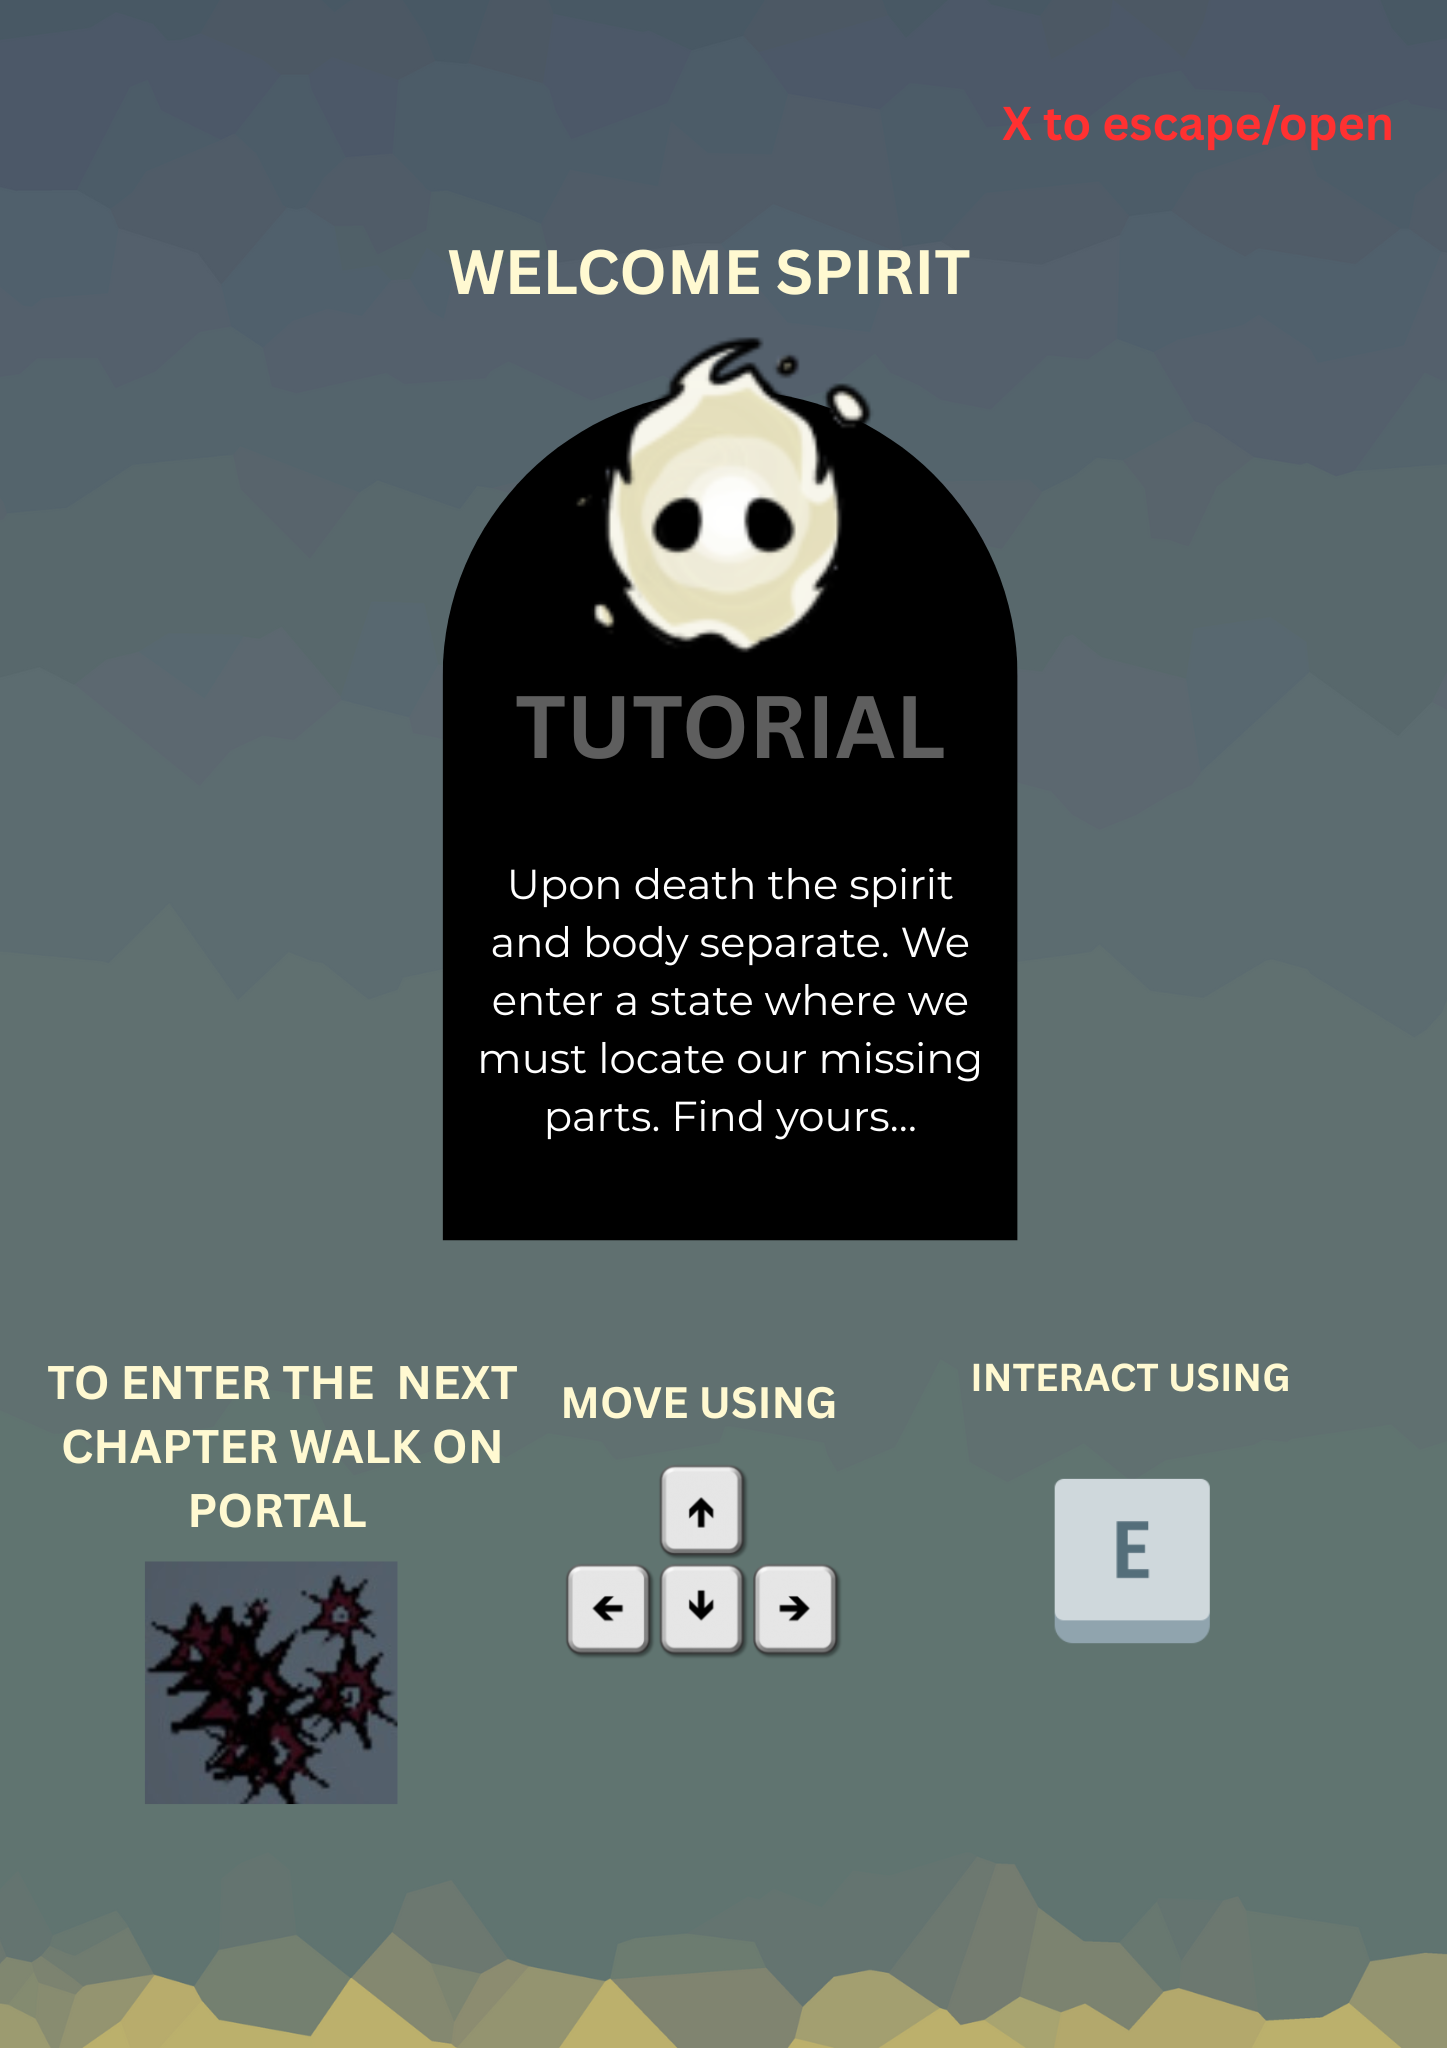
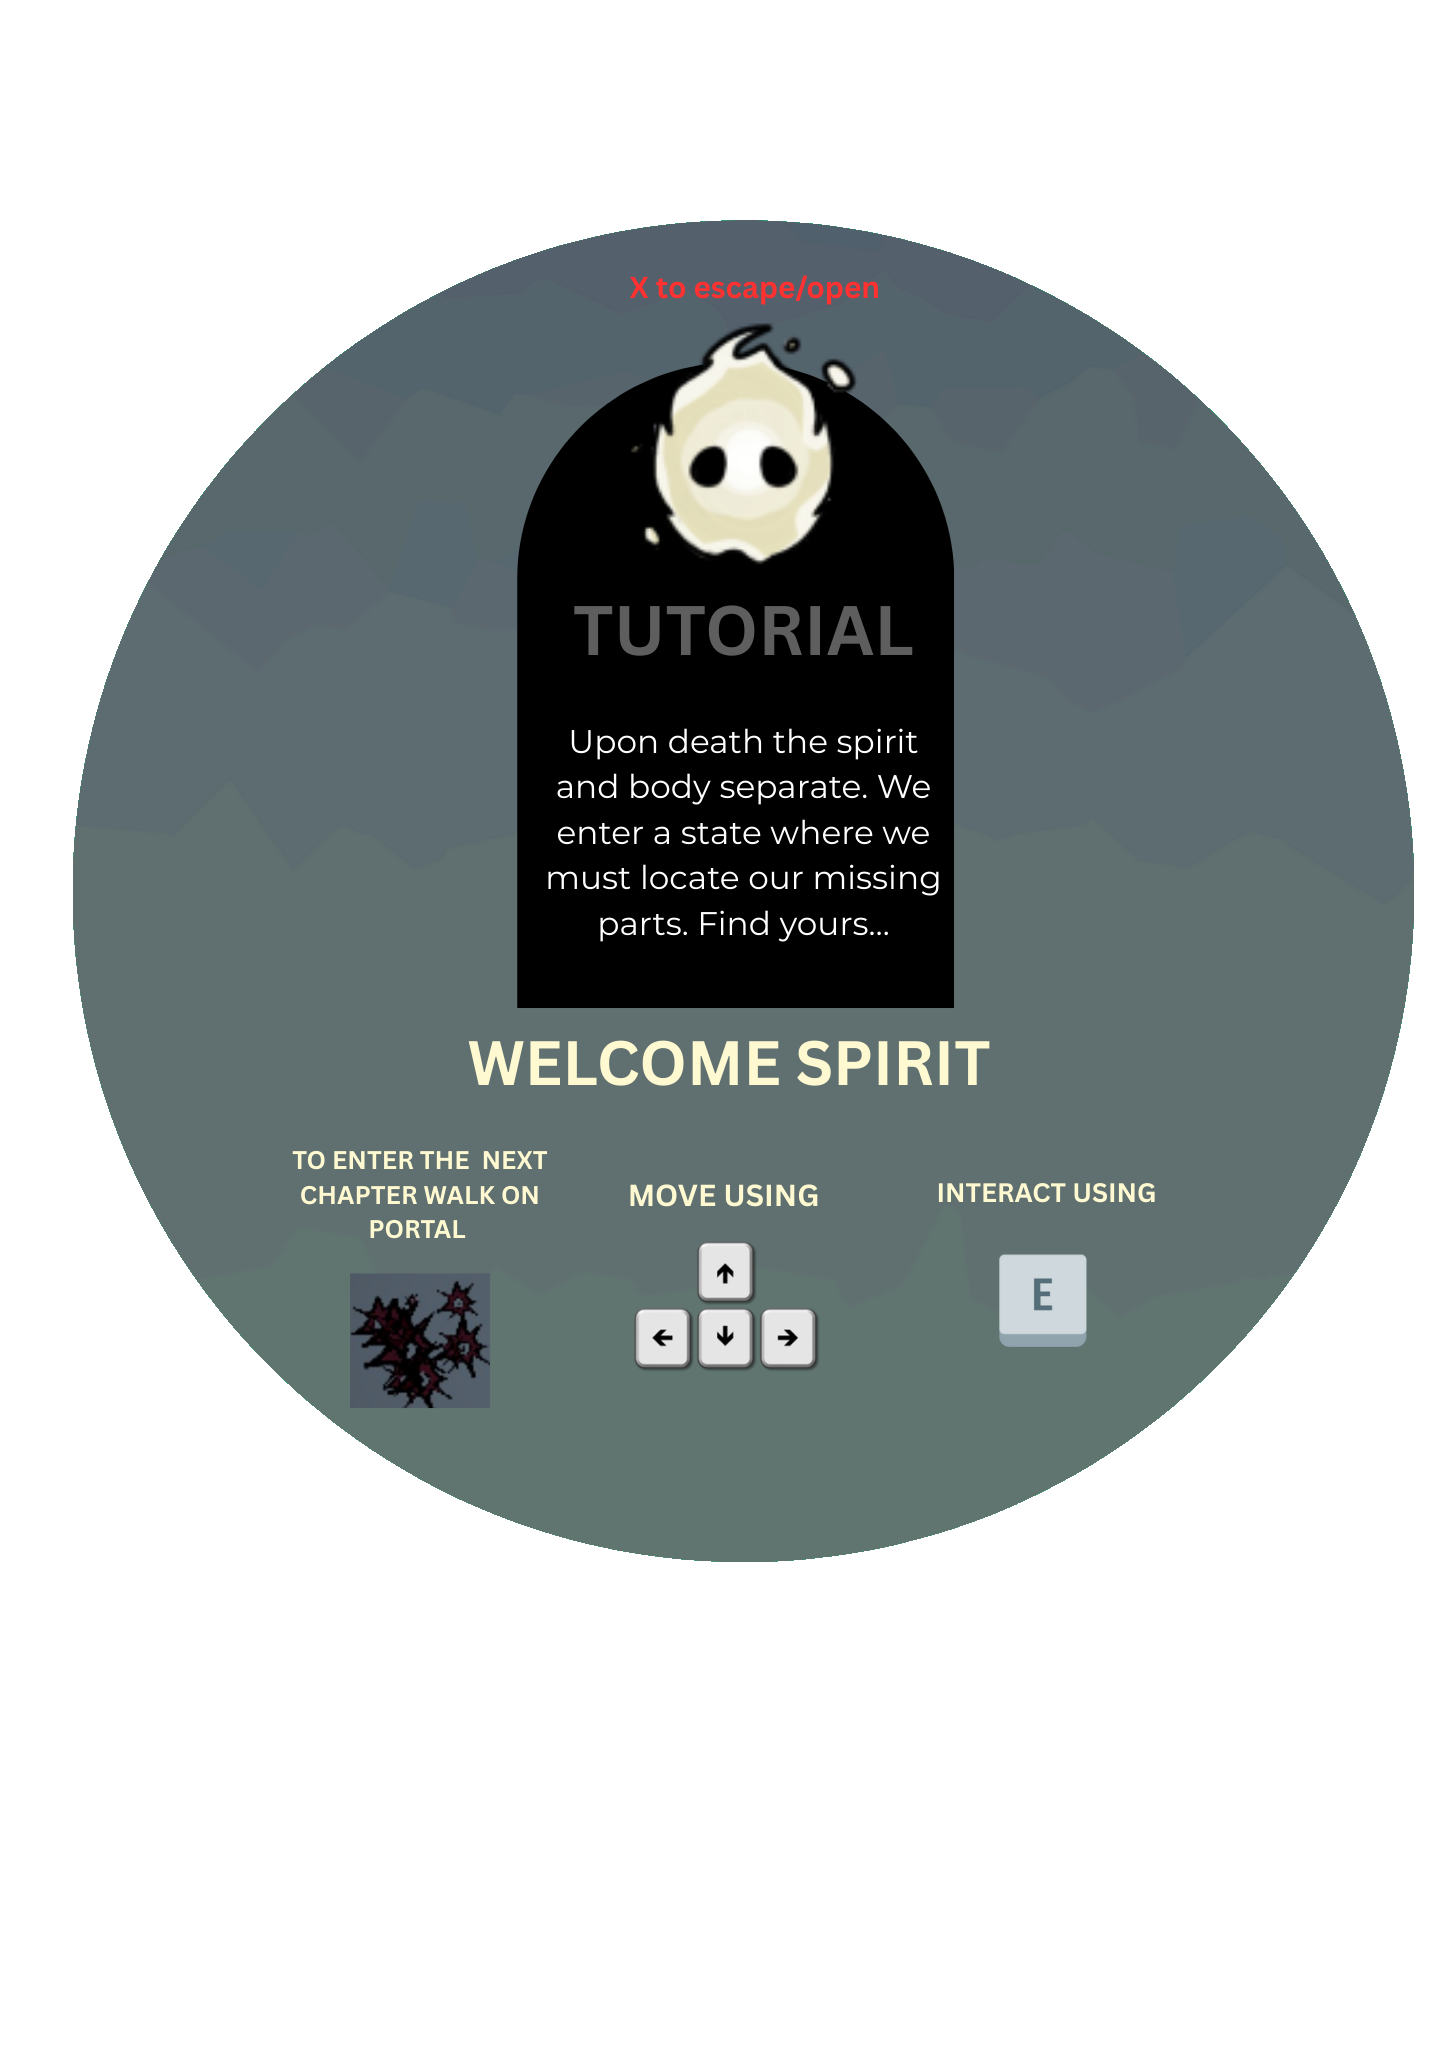
Added New Castles, Partially Completed Second Level, Various Small Improvements

diff --git a/js/Textbox.js b/js/Textbox.js
@@ -1,15 +1,17 @@
 // Class that represents a dialog textbox which displays hints and can be cycled through using the R key
 class Textbox {
-    constructor(scene, text) {
+    constructor(scene, text, question) {
         this.scene = scene; // Reference to the Phaser scene
         this.text = text; // The specific text object specified
         this.currentText = 0; // Which part of the text object to show
-        this.textBox(); // Calls textbox
+        this.question = question;
+        this.boxMade = false;
         this.rPressed = this.scene.input.keyboard.addKey('r'); // Add keyboard input for the R key
     }
 
     // Creates the textbox UI elements and sets their properties
     textBox() {
+        this.boxMade = true;
         this.cam = this.scene.cameras.main; // Reference to the main camera
 
         this.boxWindow = this.scene.physics.add.group(); // Create a physics group for textbox elements
@@ -35,6 +37,50 @@ class Textbox {
             this.nextR.setX(this.box.x + 160 - this.nextR.width / 2);
             this.nextR.setY(this.box.y + 45 - this.nextR.height / 2);
             this.tweenAdd(); // Start animation loop for blinking "(R)"
+        }
+    }
+
+    questionBox() {
+        this.boxMade = true;
+        this.cam = this.scene.cameras.main;
+
+        this.boxWindow = this.scene.physics.add.group();
+
+        // Main background box
+        this.box = this.scene.add.rectangle(this.cam.width / 2, this.cam.height * 0.70, this.cam.width / 2, this.cam.height / 3, 0xfff3d4).setDepth(1000).setStrokeStyle(4, 0xada41a);
+        this.box.setScrollFactor(0);
+
+        // Add the main box to the group
+        this.boxWindow.add(this.box);
+
+        // Add the question text near the top of the box
+        this.questionText = this.scene.add.text(0, 0, this.text[this.currentText]["question"], { fontFamily: "Palatino Linotype", fontSize: 22, color: '#5a4e10', stroke: '#ada41a', strokeThickness: 2, align: 'center', wordWrap: { width: this.box.width * 0.9 } }).setDepth(1001);
+        this.questionText.setScrollFactor(0);
+        this.questionText.setX(this.box.x - this.questionText.width / 2);
+        this.questionText.setY(this.box.y - this.box.height / 2 + 20);
+        this.boxWindow.add(this.questionText);
+
+        this.choiceBoxes = [];
+        this.choiceTextBoxes = [];
+        this.boxPadding = 10;
+        this.boxWidth = this.box.width / 2 - this.boxPadding * 2;
+        this.boxHeight = 40;
+
+        for (let i = 0; i < 4; i++) {
+            this.isTop = i < 2;
+            this.offsetX = (i % 2 === 0) ? -this.boxWidth / 2 - this.boxPadding : this.boxWidth / 2 + this.boxPadding;
+            this.offsetY = this.isTop ? 90 : 150;
+
+            this.choiceBox = this.scene.add.rectangle(this.box.x + this.offsetX, this.box.y - this.box.height / 2 + this.offsetY, this.boxWidth, this.boxHeight, 0xffffff).setStrokeStyle(2, 0xada41a).setDepth(1001);
+            this.choiceBox.setScrollFactor(0);
+            this.boxWindow.add(this.choiceBox);
+            this.choiceBoxes.push(this.choiceBox);
+
+            console.log(this.text[1]["choices"][i])
+            this.choiceText = this.scene.add.text(this.choiceBox.x, this.choiceBox.y, this.text[1]["choices"][i], { fontFamily: "Palatino Linotype", fontSize: 18, color: '#5a4e10', align: 'center', wordWrap: { width: this.boxWidth - 10 } }).setOrigin(0.5).setDepth(1002);
+            this.choiceText.setScrollFactor(0);
+            this.boxWindow.add(this.choiceText);
+            this.choiceTextBoxes.push(this.choiceText);
         }
     }
 
@@ -68,22 +114,34 @@ class Textbox {
 
     // Update method that handles user input for cycling through the text
     update() {
-        // If r is pressed
-        if (Phaser.Input.Keyboard.JustDown(this.rPressed)) {
-            this.currentText++; // Move onto the next text
+        if (this.question === false) {
+            if (this.boxMade === false) {
+                this.textBox(); // Calls textbox
+            }
+            if (this.boxMade === true) {
+                // If r is pressed
+                if (Phaser.Input.Keyboard.JustDown(this.rPressed)) {
+                    this.currentText++; // Move onto the next text
 
-            // If the next texts value is beyond the amount of texts
-            if (this.currentText >= this.text.length) {
-                this.currentText = 0; // Move back to the start
+                    // If the next texts value is beyond the amount of texts
+                    if (this.currentText >= this.text.length) {
+                        this.currentText = 0; // Move back to the start
+                    }
+
+                    // Update displayed text to new text
+                    this.textWrite.setText(this.text[this.currentText]["hint"]);
+
+                    // Centers the text within the box
+                    this.textWrite.setX(this.box.x - this.textWrite.width / 2);
+                    this.textWrite.setY(this.box.y - this.textWrite.height / 2);
+                }
             }
 
-            // Update displayed text to new text
-            this.textWrite.setText(this.text[this.currentText]["hint"]);
-
-            // Centers the text within the box
-            this.textWrite.setX(this.box.x - this.textWrite.width / 2);
-            this.textWrite.setY(this.box.y - this.textWrite.height / 2);
-
+        }
+        else {
+            if (this.boxMade === false) {
+                this.questionBox()
+            }
         }
     }
 
@@ -104,5 +162,18 @@ class Textbox {
         if (this.rPressed) {
             this.rPressed.off('down');
         }
+
+        if (this.questionText) {
+            this.questionText.destroy();
+        }
+
+        if (this.choiceBoxes) {
+            this.choiceBoxes.forEach(box => box.destroy());
+        }
+
+        if (this.choiceText) {
+            this.choiceText.destroy();
+        }
+
     }
 }

diff --git a/js/Interactable.js b/js/Interactable.js
@@ -1,6 +1,6 @@
 // A class for creating interactive game objects the player can interact with using the E key
 class Interactable extends Phaser.Physics.Arcade.Sprite {
-    constructor(scene, x, y, width, height, texture, textName, animated, canInteract, text, noMSG, player) {
+    constructor(scene, x, y, width, height, texture, textName, animated, canInteract, text, noMSG, question, player) {
         super(scene, x, y, texture); // Calls the parent class (Sprite)
 
         scene.add.existing(this).setDepth(0.4); // Add this game object to the main scene
@@ -15,6 +15,7 @@ class Interactable extends Phaser.Physics.Arcade.Sprite {
         this.animated = animated; // Whether this object has a looping animation
         this.canInteract = canInteract; // Whether interaction is currently allowed
         this.noMSG = noMSG; // Message shown if interaction is not allowed
+        this.question = question;
         this.ePressed = this.scene.input.keyboard.addKey('e'); // Add keyboard input for the E key
         this.setup(); // Calls this.setup()
         this.overlapped();
@@ -82,7 +83,6 @@ class Interactable extends Phaser.Physics.Arcade.Sprite {
             }
             // Remove the non-interaction message
             if (this.noTalk) {
-                this.noTalk.destroy();
                 this.noTalk = null;
             }
         }
@@ -98,7 +98,7 @@ class Interactable extends Phaser.Physics.Arcade.Sprite {
         if (this.canInteract) {
             // If there is no textbox, make a new textbox
             if (!this.textBox) {
-                this.textBox = new Textbox(this.scene, this.text[this.textName]);
+                this.textBox = new Textbox(this.scene, this.text[this.textName], this.question);
             }
             // Otherwise, remove the textbox
             else {
@@ -108,7 +108,7 @@ class Interactable extends Phaser.Physics.Arcade.Sprite {
         }
         // Shows a brief floating message if player can't interact with this object
         else {
-            this.noTalk = this.scene.add.text(this.x, this.y - this.displayHeight + 15, this.noMSG, { fontFamily: "Palatino Linotype", fontSize: 16, color: '#ada41a', stroke: '#00000', strokeThickness: 4, align: 'center', }).setDepth(1000);
+            this.noTalk = this.scene.add.text(this.x, this.y - this.displayHeight / 1.75, this.noMSG, { fontFamily: "Palatino Linotype", fontSize: 18, color: '#ada41a', stroke: '#00000', strokeThickness: 4, align: 'center', }).setDepth(1000);
             this.noTalk.setX(this.x - this.noTalk.width / 2);
             this.scene.tweens.add({
                 targets: this.noTalk,

diff --git a/js/Level.js b/js/Level.js
@@ -50,7 +50,7 @@ class Level {
         // For the amount of interactables the level has, create an interactable with specified instructions from levelData, add it to any groups that it requires or that store it
         for (let j = 0; j < this.levelData.interactables.length; j++) {
             let interactable = this.levelData.interactables[j];
-            let newInter = new Interactable(this.scene, interactable.x, interactable.y, interactable.width, interactable.height, interactable.texture, interactable.textName, interactable.animated, interactable.canInteract, this.text, interactable.noMSG, this.player);
+            let newInter = new Interactable(this.scene, interactable.x, interactable.y, interactable.width, interactable.height, interactable.texture, interactable.textName, interactable.animated, interactable.canInteract, this.text, interactable.noMSG, interactable.question, this.player);
             if (newInter) {
                 this.newInter.push(newInter);
             };

diff --git a/js/Game.js b/js/Game.js
@@ -45,7 +45,12 @@ class Game extends Phaser.Scene {
         this.load.image('road', 'resources/images/road.png');
         this.load.image('road_continuous', 'resources/images/road_continuous.png');
         this.load.image('darkness', 'resources/images/darkness.png');
-        this.load.image('castle', 'resources/images/castle.png');
+        this.load.image('castle1', 'resources/images/castle1.png');
+        this.load.image('castle2', 'resources/images/castle2.png');
+        this.load.image('castle3', 'resources/images/castle3.png');
+        this.load.image('castle4', 'resources/images/castle4.png');
+        this.load.image('castle5', 'resources/images/castle5.png');
+        this.load.image('castle6', 'resources/images/castle6.png');
         this.load.image('instructions', 'resources/images/instructions.png');
         // Loads sprite sheets
         this.load.spritesheet('playerIMG', 'resources/images/soulflame.png', { frameWidth: 81, frameHeight: 89, spacing: 9 });

diff --git a/js/Instructions.js b/js/Instructions.js
@@ -10,8 +10,8 @@ class Instructions extends Phaser.Physics.Arcade.Sprite {
     instructionCreate() {
         this.cam = this.scene.cameras.main; // References the main camera
 
-        this.instructIMG = this.scene.add.image(this.cam.width / 2, this.cam.height / 2, 'instructions').setDepth(999) // Adds instruction image to the center of the screen
-        this.instructIMG.setDisplaySize(434.1, 614.4); // Modifies their size when displayed
+        this.instructIMG = this.scene.add.image(this.cam.width / 2, this.cam.height / 1.7, 'instructions').setDepth(999) // Adds instruction image to the center of the screen
+        this.instructIMG.setDisplaySize(578.8, 819.2); // Modifies their size when displayed
         this.instructIMG.setScrollFactor(0); // Sets their scroll factor to 0 so that it can stay with the camera
 
 

diff --git a/js/Stars.js b/js/Stars.js
@@ -14,6 +14,7 @@ class Stars extends Level {
             lifespan: { min: 3000, max: 5000 },
             scaleX: 0.25,
             scaleY: 0.25,
+            speedY: -5,
             blendMode: 'SCREEN'
 
         });
